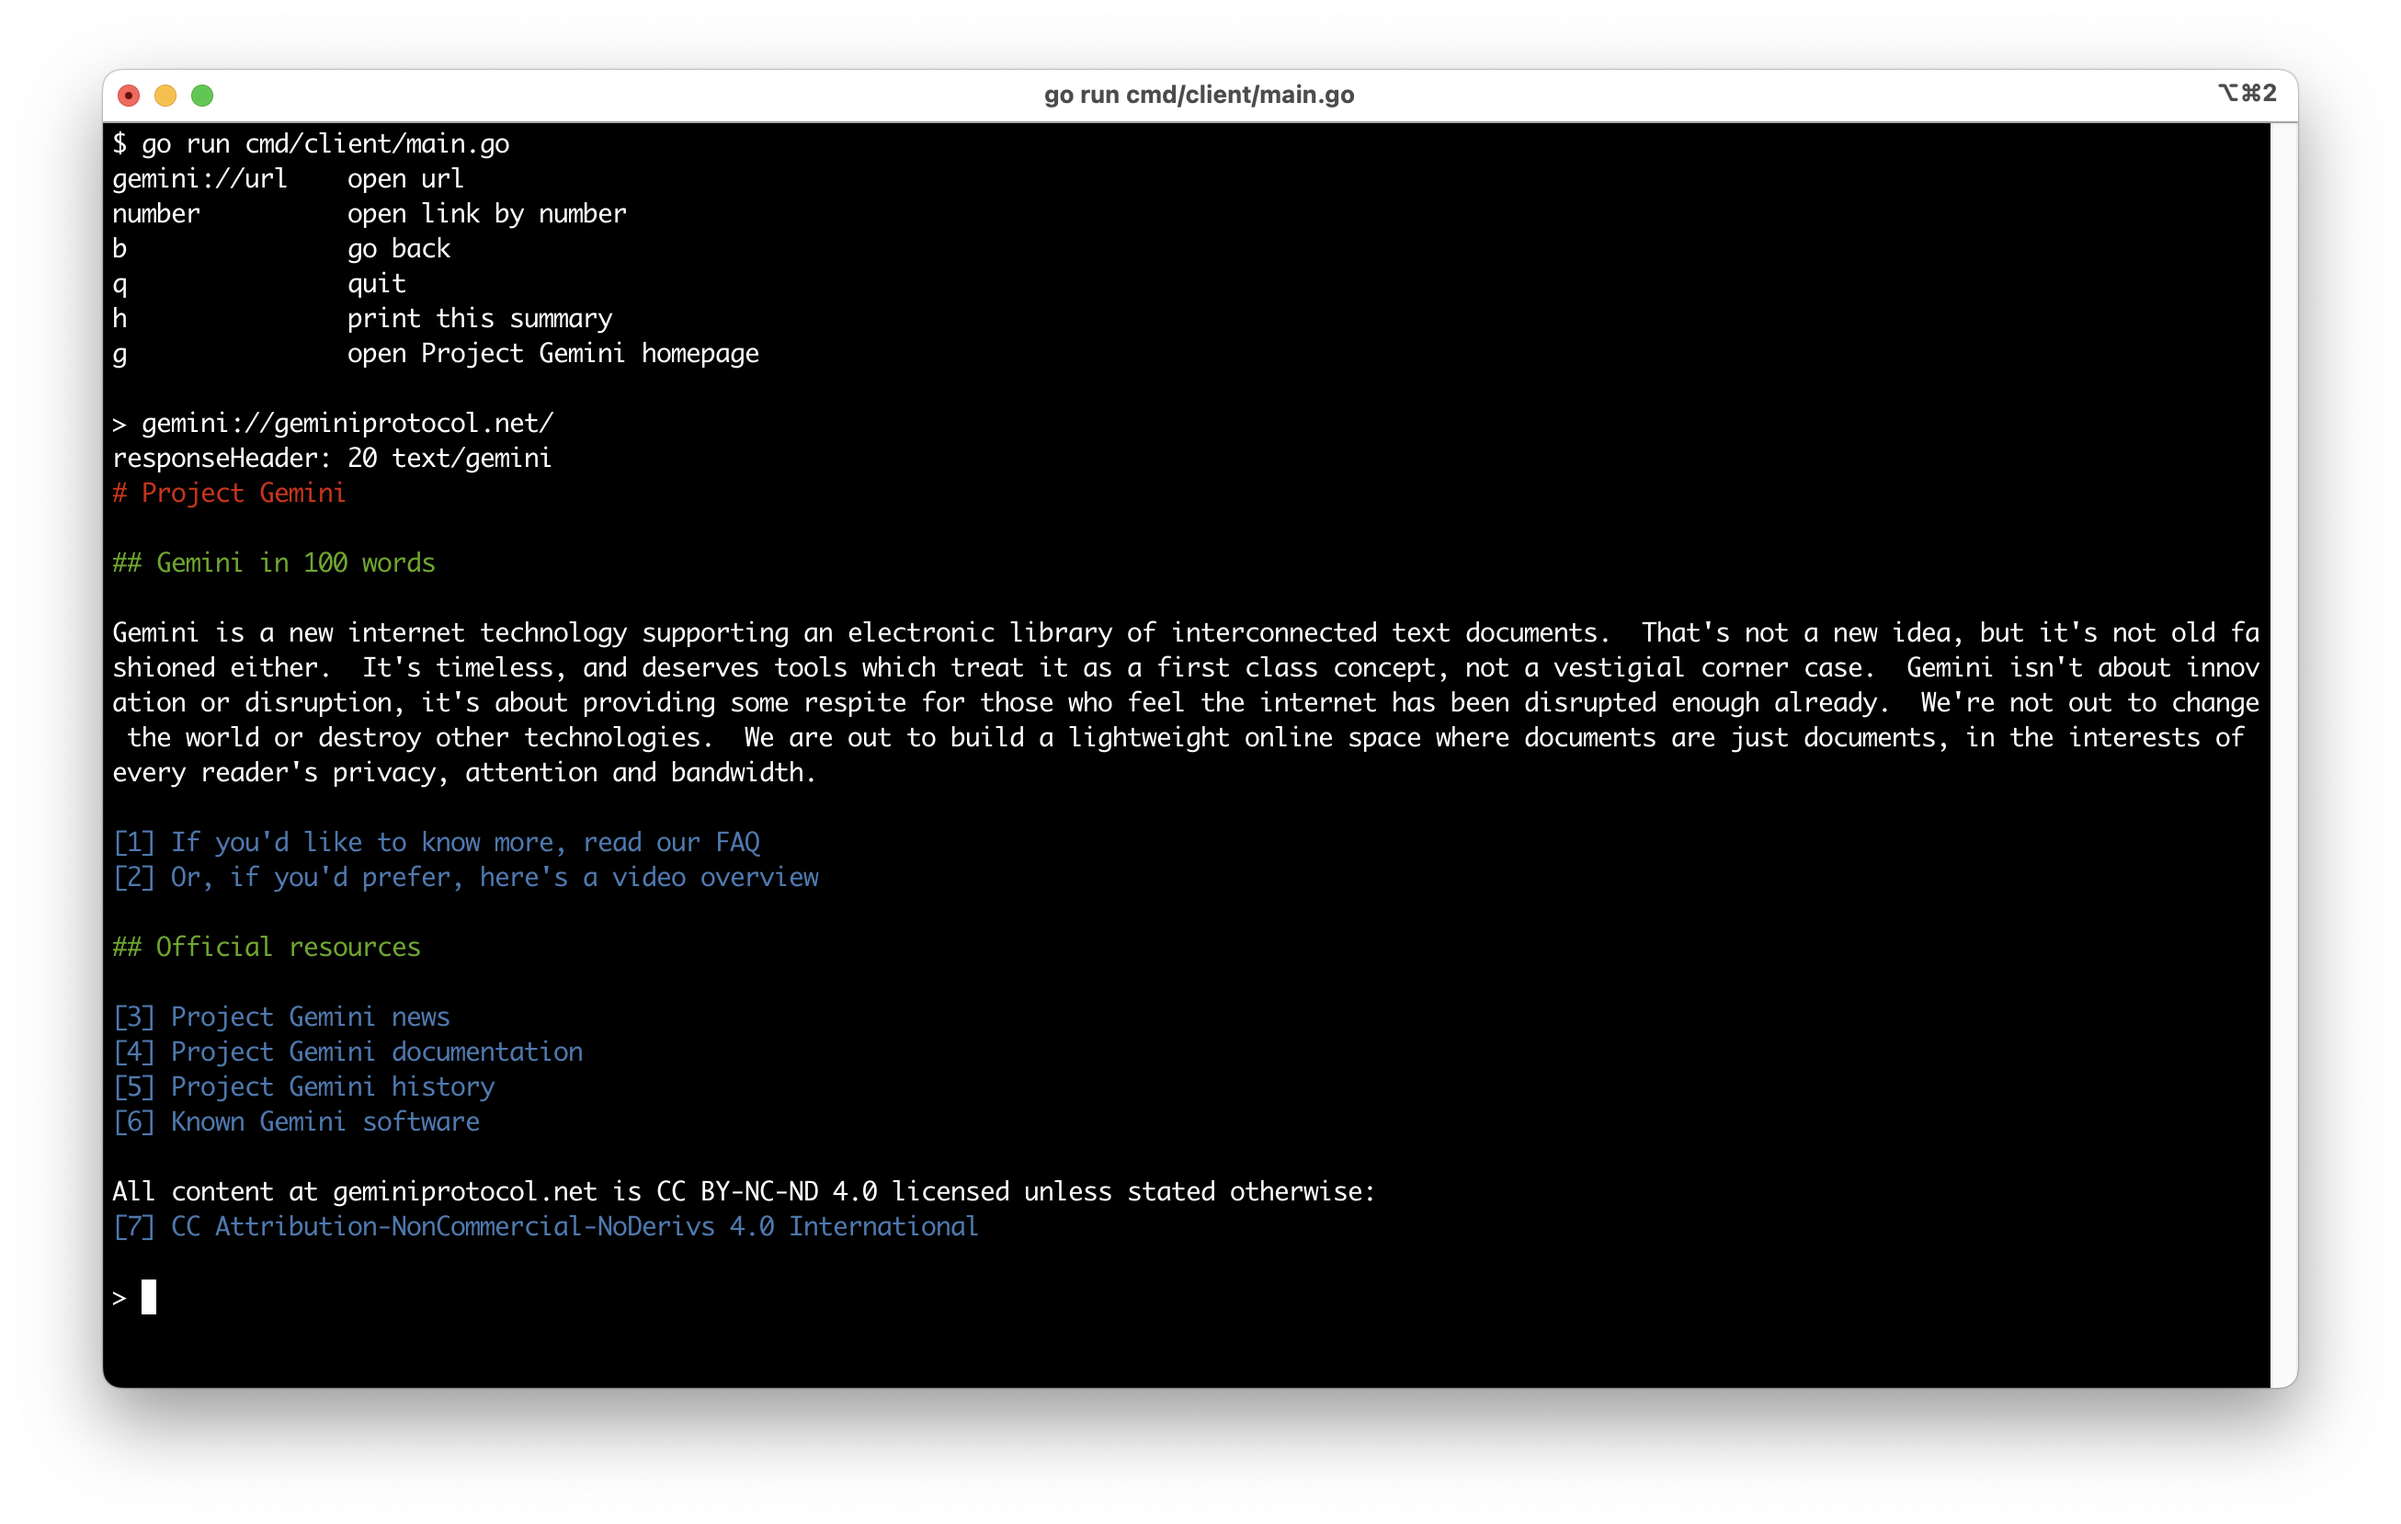
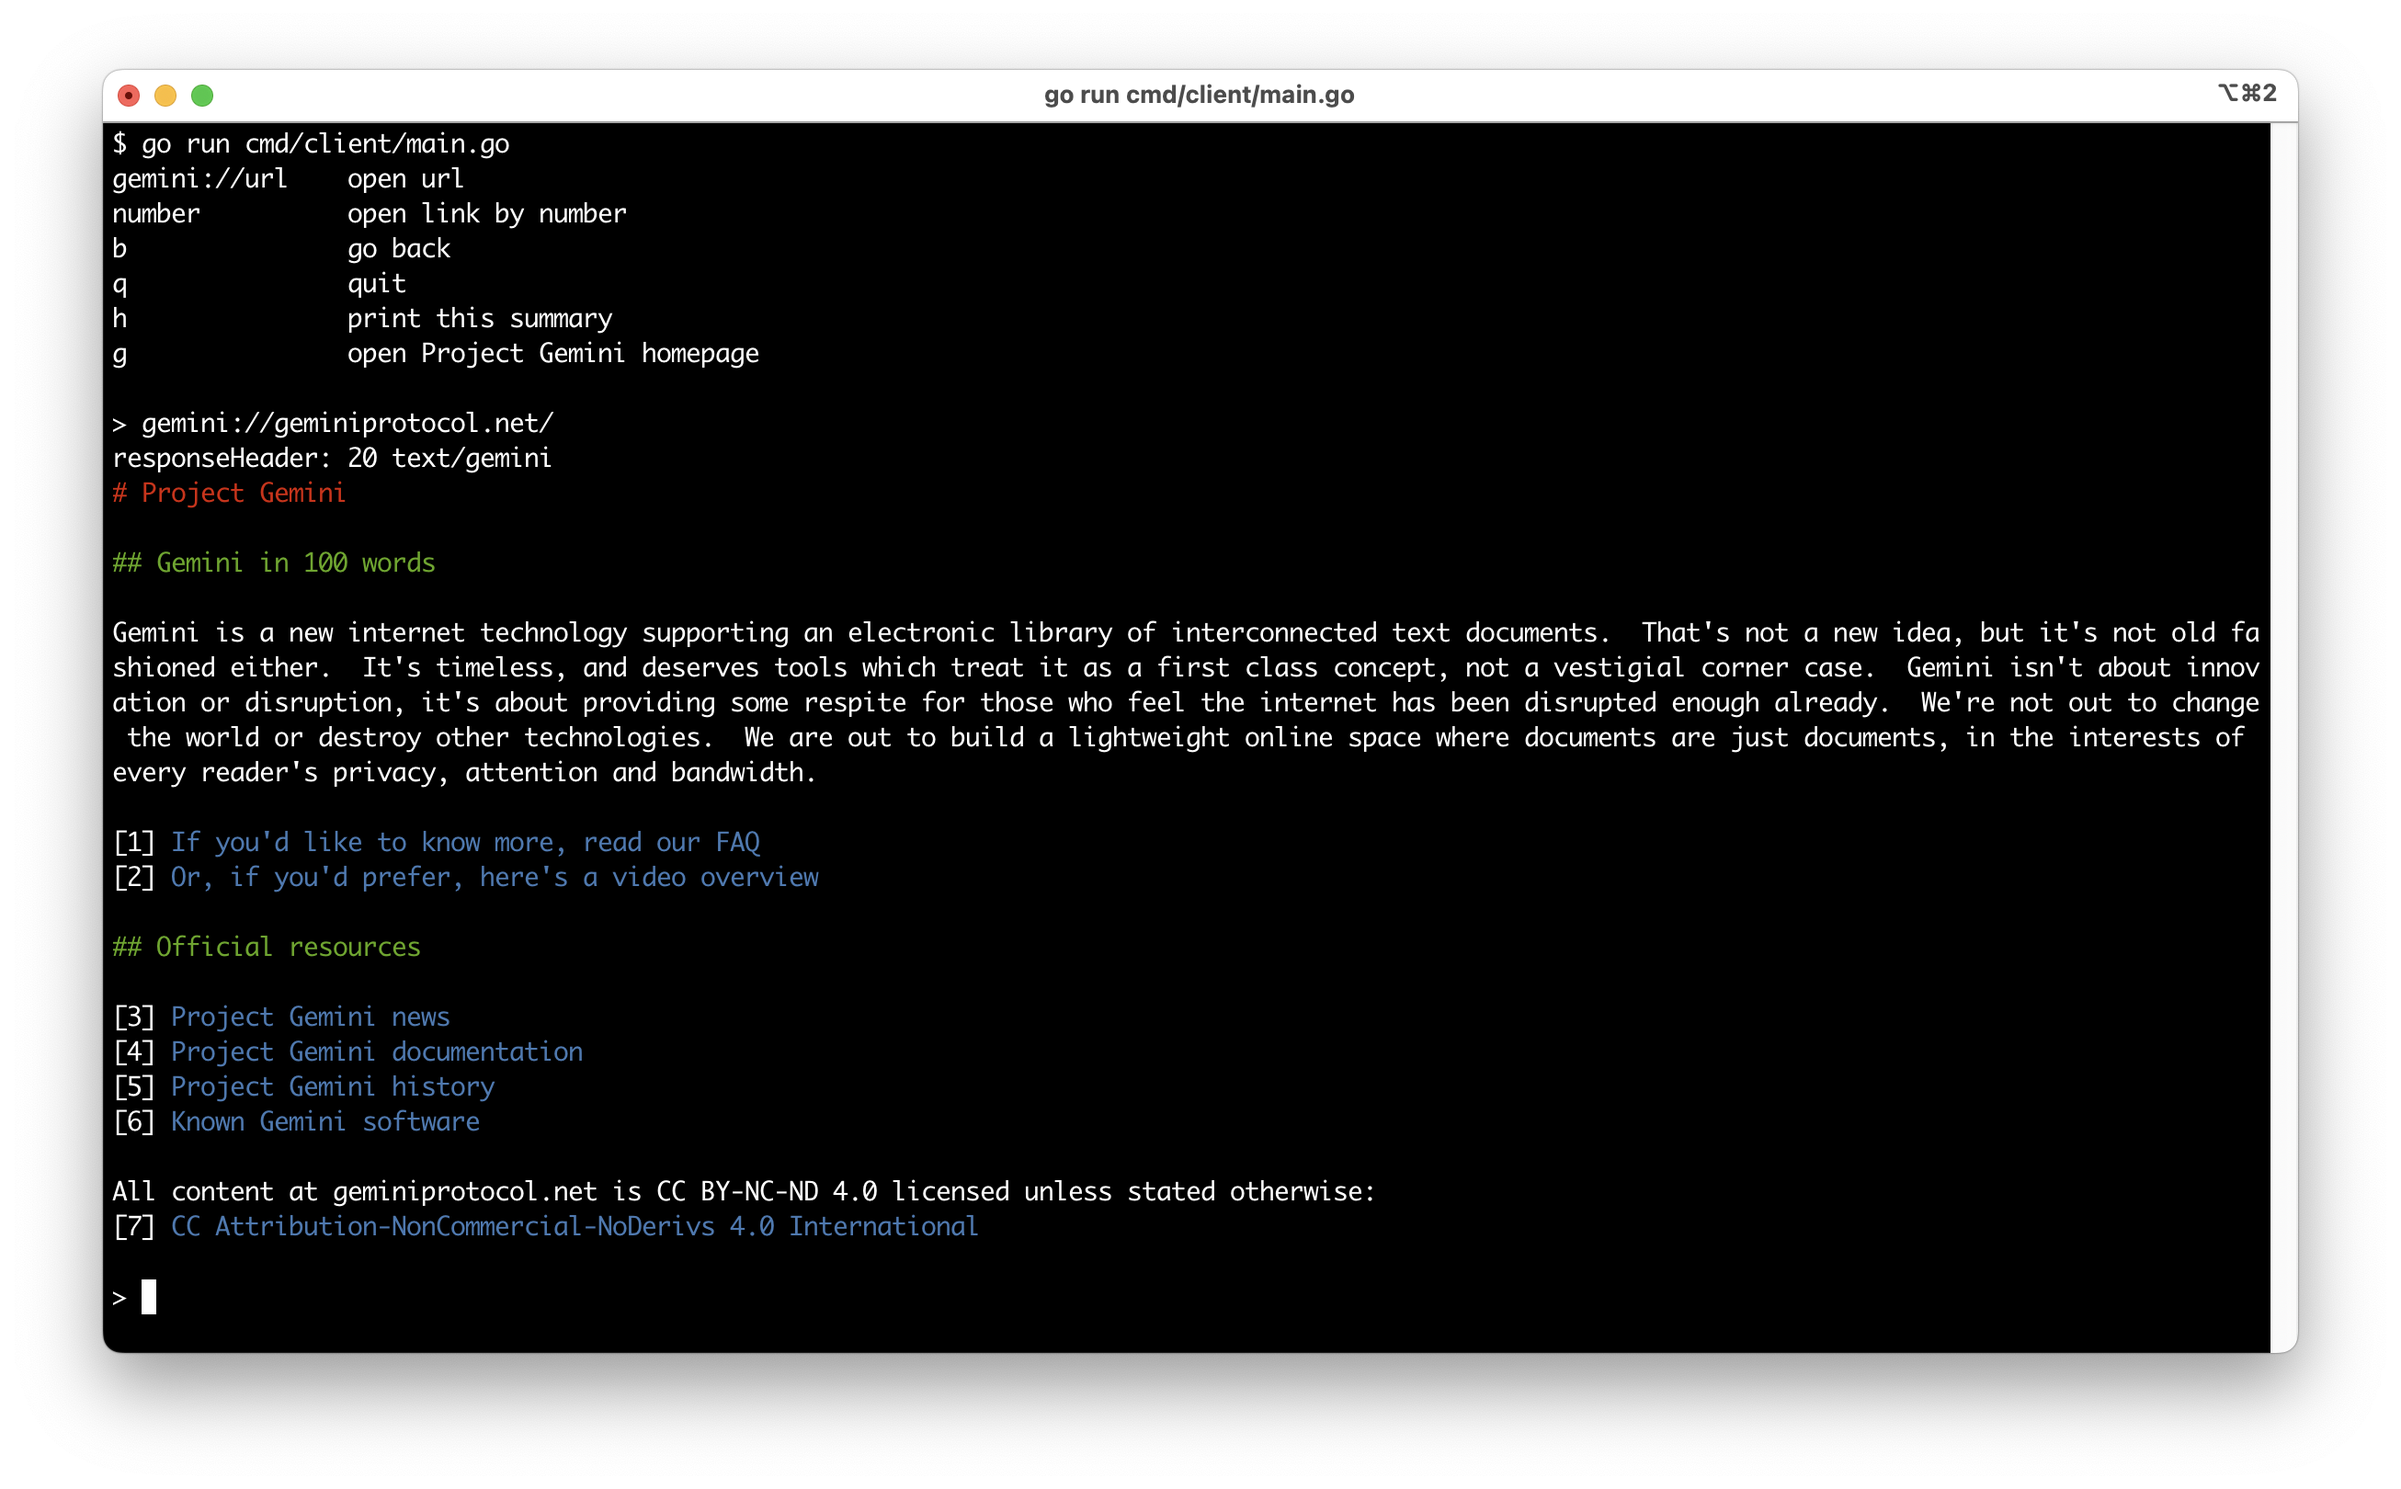
docs: print link numbers in white

diff --git a/cmd/client/main.go b/cmd/client/main.go
@@ -334,7 +334,7 @@ func processLink(state *State, link *url.URL, line string) error {
 	}
 
 	state.Links = append(state.Links, absoluteLink)
-	fmt.Printf("\033[34m[%d] %s\033[0m\n", len(state.Links), linkNum) //blue
+	fmt.Printf("[%d] \u001B[34m%s\033[0m\n", len(state.Links), linkNum) //blue
 
 	return nil
 }
